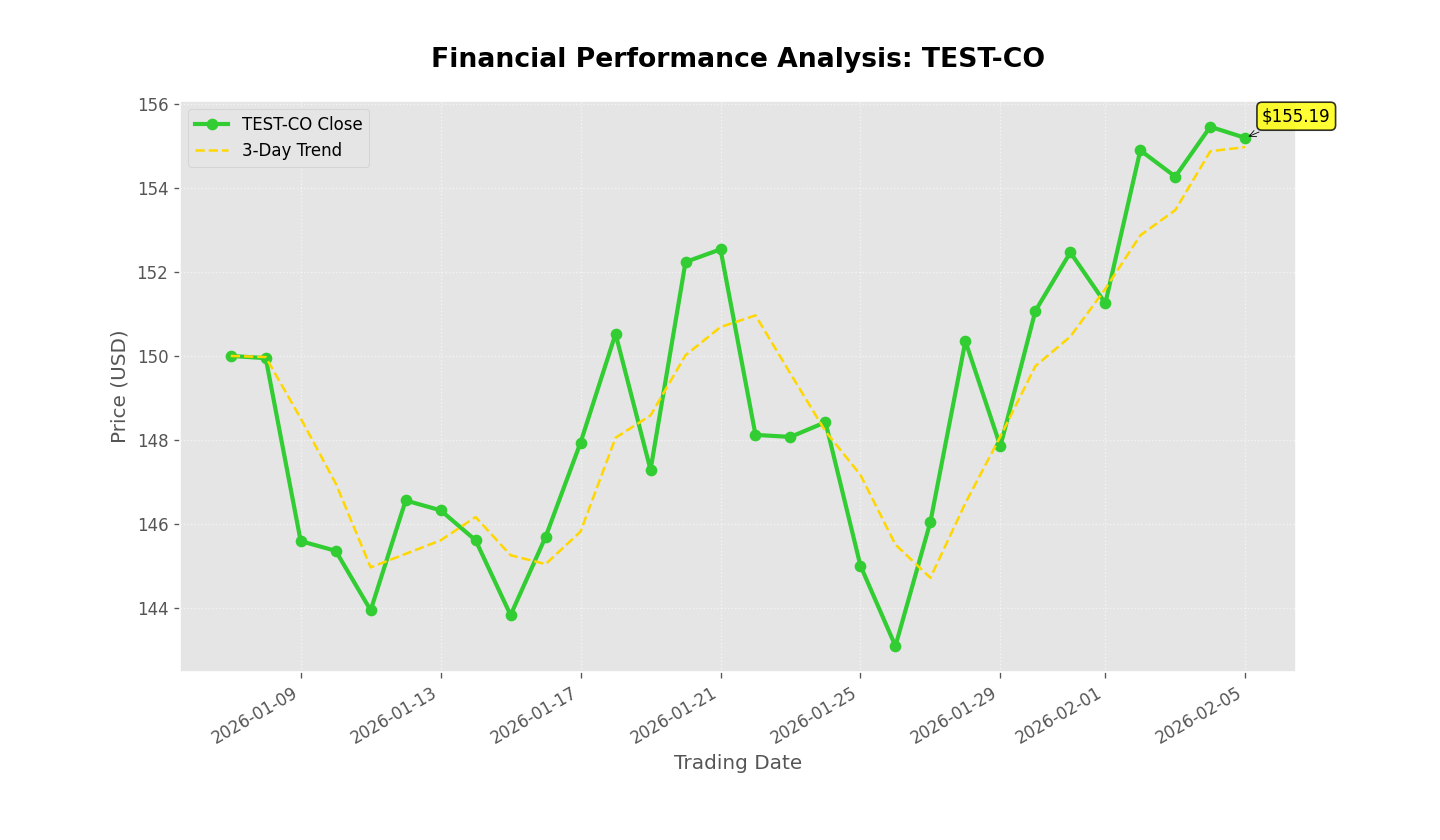
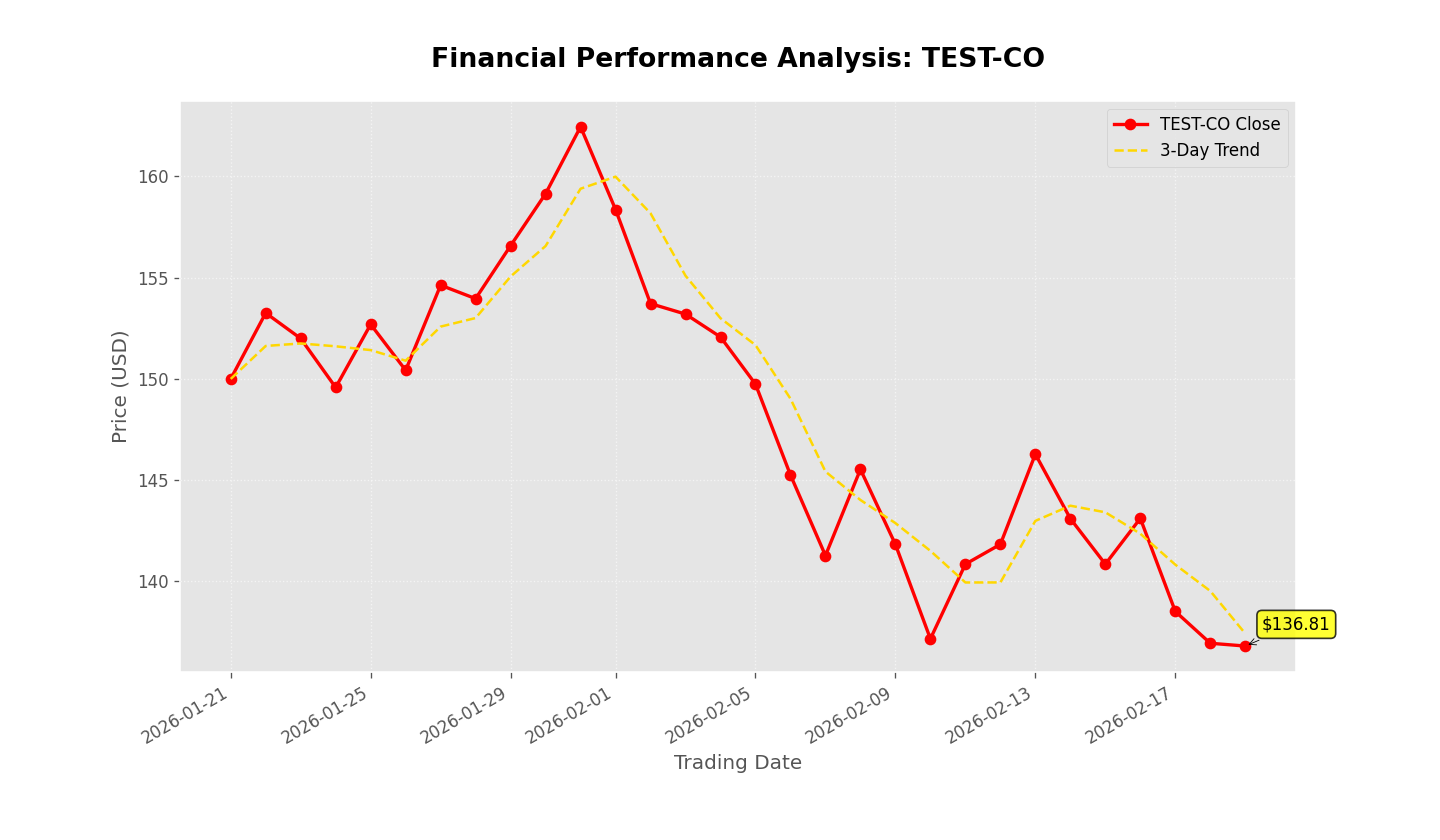
updated notes for line chart server and added legend location functionality

diff --git a/src/backend/mcp_servers/chart_mcp_server/server.py b/src/backend/mcp_servers/chart_mcp_server/server.py
@@ -18,10 +18,10 @@ COLORS = ["red", "limegreen", "royalblue"]
 # Initialize the server
 mcp = FastMCP("Stock Analyzer")
 
-# @mcp.tool()
-def generate_pro_financial_chart(dates: list[str], prices: list[float], symbol: str = "STOCK") -> Image:
+# @mcp.tool() # comment out for testing
+def generate_financial_line_chart(dates: list[str], prices: list[float], symbol: str = "STOCK") -> Image:
     """
-    Generates a professional-grade area chart with a moving average and trend indicators.
+    Generates a financial line chart with a moving average and trend indicators.
     """
     # Validation: Ensure data lengths match
     if len(dates) != len(prices):
@@ -30,31 +30,30 @@ def generate_pro_financial_chart(dates: list[str], prices: list[float], symbol: 
     if not dates:
         raise ValueError("Data empty: No dates or prices provided.")
 
-    # 1. Parse Dates
-    # Converting strings to datetime objects allows Matplotlib to handle axis formatting smartly.
+    # Format dates
+    # Convert strings to datetime objects allows Matplotlib to handle axis formatting smartly.
     try:
-        # Assuming ISO format (YYYY-MM-DD), adjust format string if inputs differ
-        dt_dates = [datetime.fromisoformat(d) for d in dates]
+        # Assuming dates are in ISO format (YYYY-MM-DD)
+        dt_dates = [datetime.fromisoformat(d) for d in dates] 
     except ValueError:
-        # Fallback if standard parsing fails, though explicit parsing is better
+        # Fallback if standard parsing fails
         dt_dates = dates 
 
-    # 2. Calculate SMA (Simple Moving Average)
+    # Calculate SMA (Simple Moving Average)
     sma = [sum(prices[max(0, i-2):i+1]) / len(prices[max(0, i-2):i+1]) for i in range(len(prices))]
 
-    # 3. Setup Plot (Context Manager recommended for thread safety)
-    # Using the context manager ensures styles don't leak to other threads
+    # Setup plot
+    # Context manager ensures styles don't leak to other threads
     with plt.style.context('ggplot'):
         fig, ax = plt.subplots(figsize=(12, 7))
         
-        # 4. Create the Area Chart
-        # ax.fill_between(dt_dates, prices, color="skyblue", alpha=0.4, label="Price Area")
-        ax.plot(dt_dates, prices, color=random.choice(COLORS), marker='o', linewidth=2.5, label=f"{symbol} Close")
+        # Plot the Line Graph
+        ax.plot(dt_dates, prices, color=random.choice(COLORS), marker='o', linewidth=2, label=f"{symbol} Close")
         
-        # 5. Add the Trend Line
+        # Add the Trend Line
         ax.plot(dt_dates, sma, color="gold", linestyle="--", linewidth=1.5, label="3-Day Trend")
 
-        # 6. Highlight the Latest Price
+        # Highlight the Latest Price
         latest_price = prices[-1]
         latest_date = dt_dates[-1]
         
@@ -66,21 +65,24 @@ def generate_pro_financial_chart(dates: list[str], prices: list[float], symbol: 
                     arrowprops=dict(arrowstyle='->', color='black'),
                     bbox=dict(boxstyle="round,pad=0.3", fc="yellow", ec="black", lw=1, alpha=0.8))
 
-        # 7. Formatting
+        # Formatting
         ax.set_title(f"Financial Performance Analysis: {symbol}", fontsize=16, fontweight='bold', pad=20)
         ax.set_ylabel("Price (USD)", fontsize=12)
         ax.set_xlabel("Trading Date", fontsize=12)
-        ax.legend(loc="upper left")
+        if prices[-1] >= prices[0]:
+            ax.legend(loc="upper left")
+        else:
+            ax.legend(loc="upper right")
         ax.grid(True, linestyle=':', alpha=0.6)
         
         # Auto-format date tick labels (rotates and skips labels to fit)
         fig.autofmt_xdate()
 
-        # 8. Save to Buffer
-        buf = io.BytesIO()
-        plt.savefig(buf, format='png', dpi=120)
-        buf.seek(0)
-        image_bytes = buf.getvalue()
+        # Save to Buffer
+        buffer = io.BytesIO()
+        plt.savefig(buffer, format='png', dpi=120)
+        buffer.seek(0)
+        image_bytes = buffer.getvalue()
         
         # Explicitly close the figure to free memory
         plt.close(fig)

diff --git a/src/backend/mcp_servers/chart_mcp_server/test_server.py b/src/backend/mcp_servers/chart_mcp_server/test_server.py
@@ -1,4 +1,4 @@
-from server import generate_pro_financial_chart
+from server import generate_financial_line_chart
 from datetime import datetime, timedelta
 import random
 
@@ -21,11 +21,11 @@ def test_chart_generation():
 
     # 2. Call the Tool Directly
     try:
-        print("calling generate_pro_financial_chart()...")
-        image_result = generate_pro_financial_chart(dates=dates, prices=prices, symbol="TEST-CO")
+        print("calling generate_financial_line_chart()...")
+        image_result = generate_financial_line_chart(dates=dates, prices=prices, symbol="TEST-CO")
         
         # 3. Save the output to verify visual correctness
-        output_filename = "../../charts/test_chart_output.png"
+        output_filename = "src/backend/charts/test_chart_output.png"
         with open(output_filename, "wb") as f:
             f.write(image_result.data)
             
